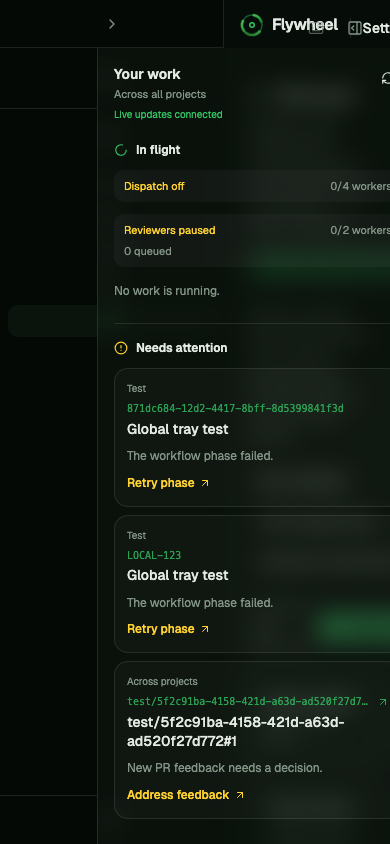
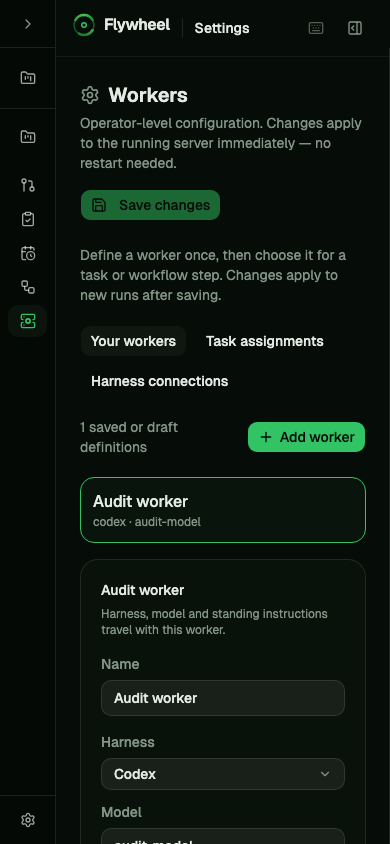
Wait for responsive panels before worker UI capture

diff --git a/web/e2e/journeys.spec.ts b/web/e2e/journeys.spec.ts
@@ -137,9 +137,11 @@ test('J09 define a worker and assign it to reviews and implementation', async ({
     await expect(page.getByLabel('Instructions', { exact: true })).toHaveValue('Keep reviews pragmatic.')
     await evidence(page, info)
     await page.setViewportSize({ width: 390, height: 844 })
+    await expect(page.getByRole('button', { name: 'Expand sidebar', exact: true })).toBeVisible()
+    await expect(page.getByRole('button', { name: 'Open panel', exact: true })).toBeVisible()
     await expect(page.getByLabel('Instructions', { exact: true })).toBeVisible()
     expect(await page.evaluate(() => document.documentElement.scrollWidth <= window.innerWidth)).toBe(true)
-    await page.screenshot({ path: info.outputPath('worker-mobile.png'), fullPage: true })
+    await page.screenshot({ path: info.outputPath('worker-mobile.png'), fullPage: true, animations: 'disabled' })
     await page.setViewportSize({ width: 1440, height: 1000 })
     await page.getByRole('tab', { name: 'Task assignments' }).click()
     await page.getByLabel('Review worker', { exact: true }).click()
